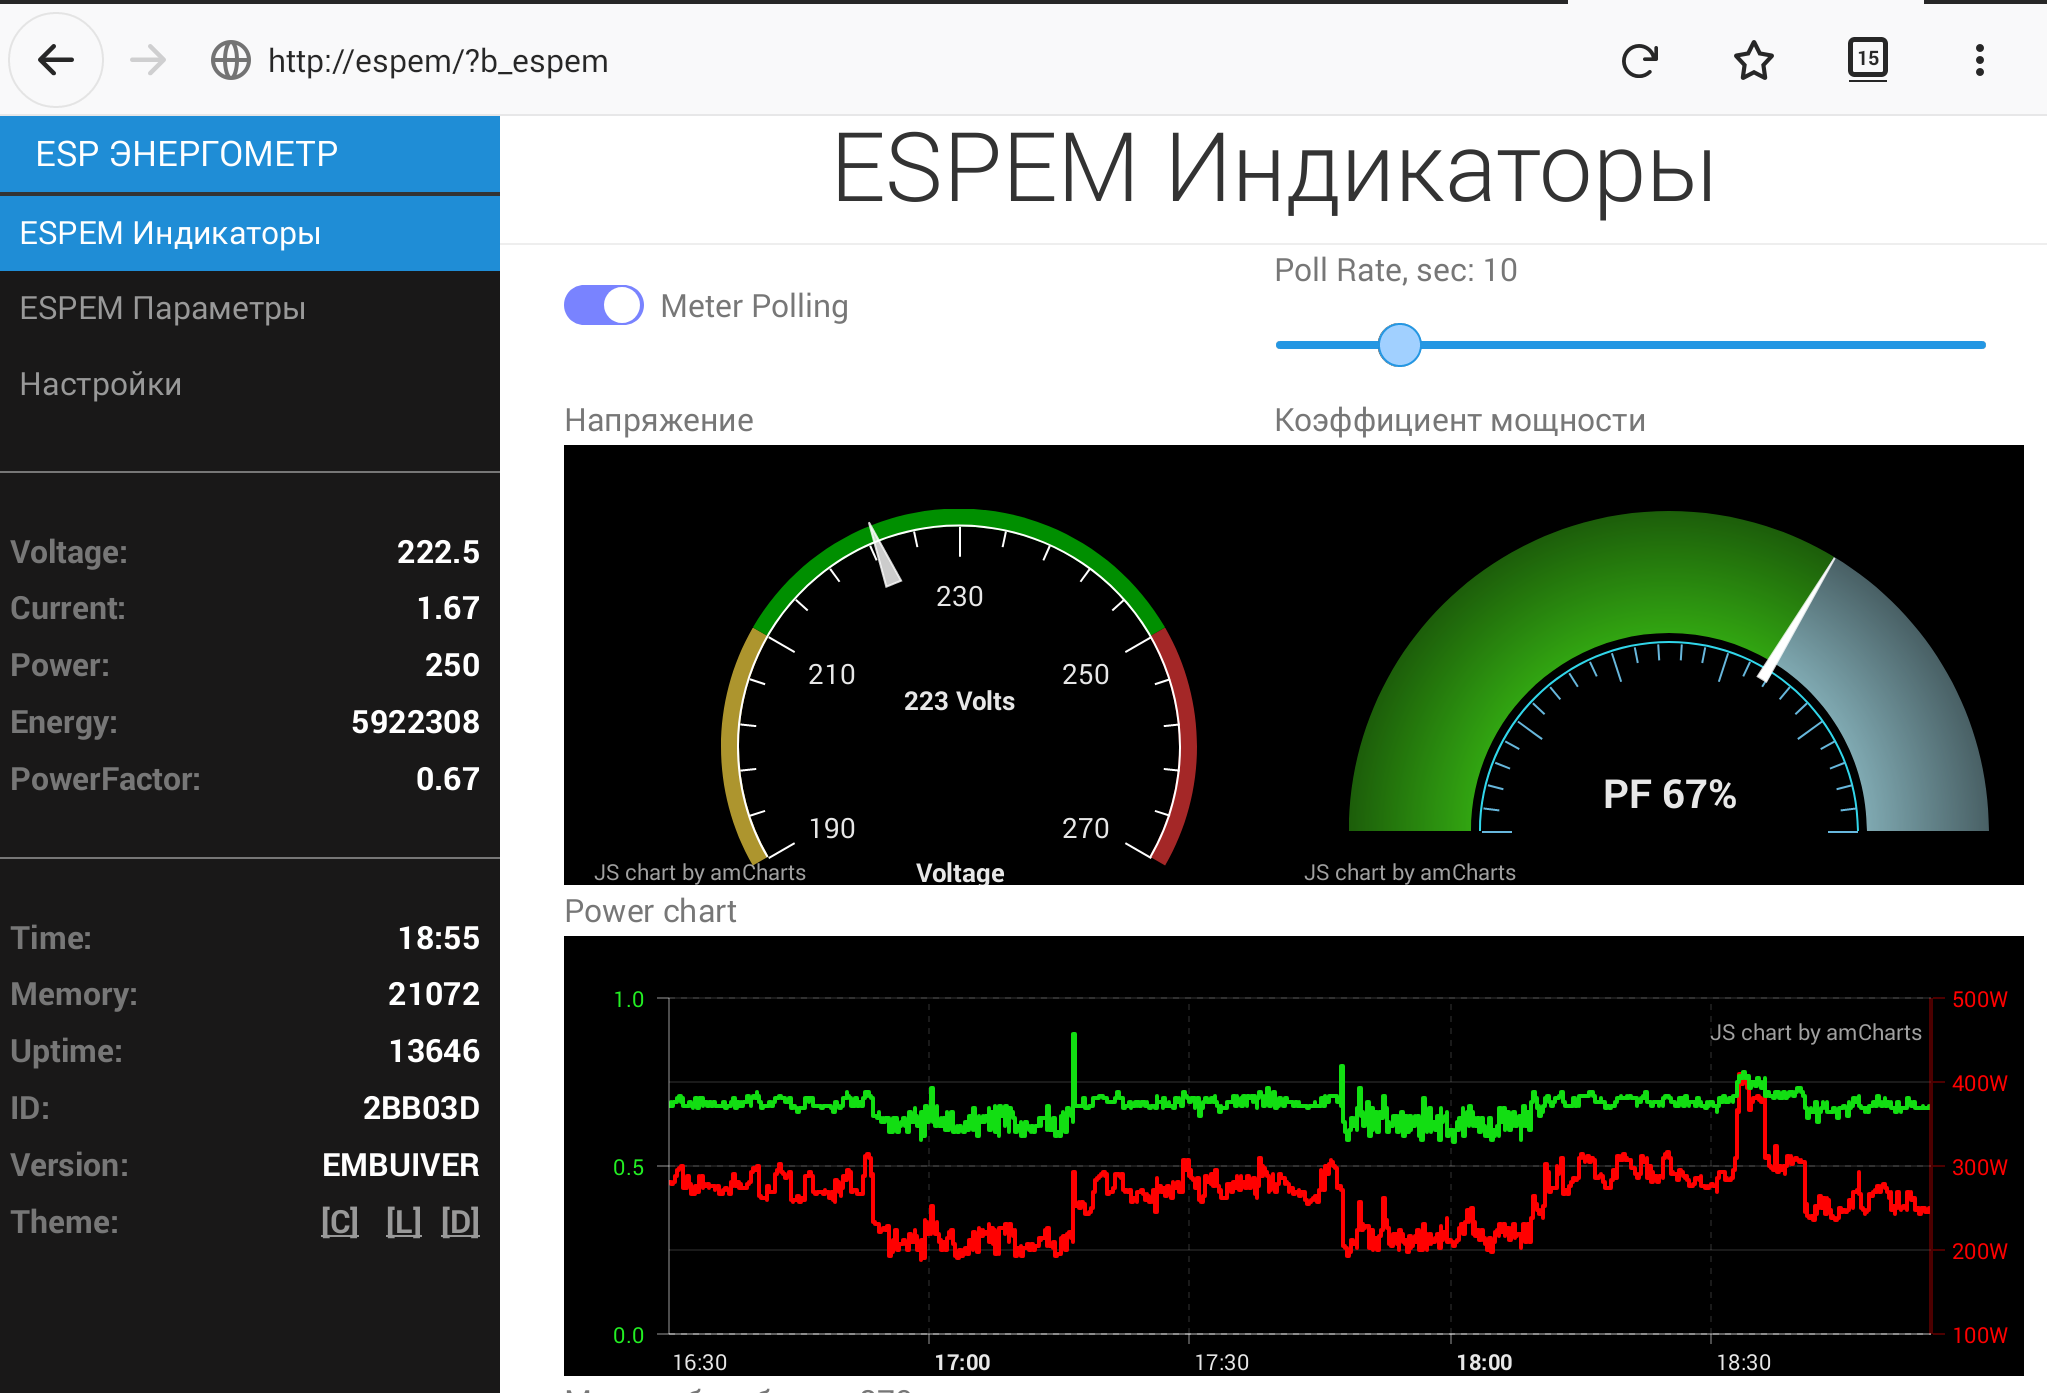
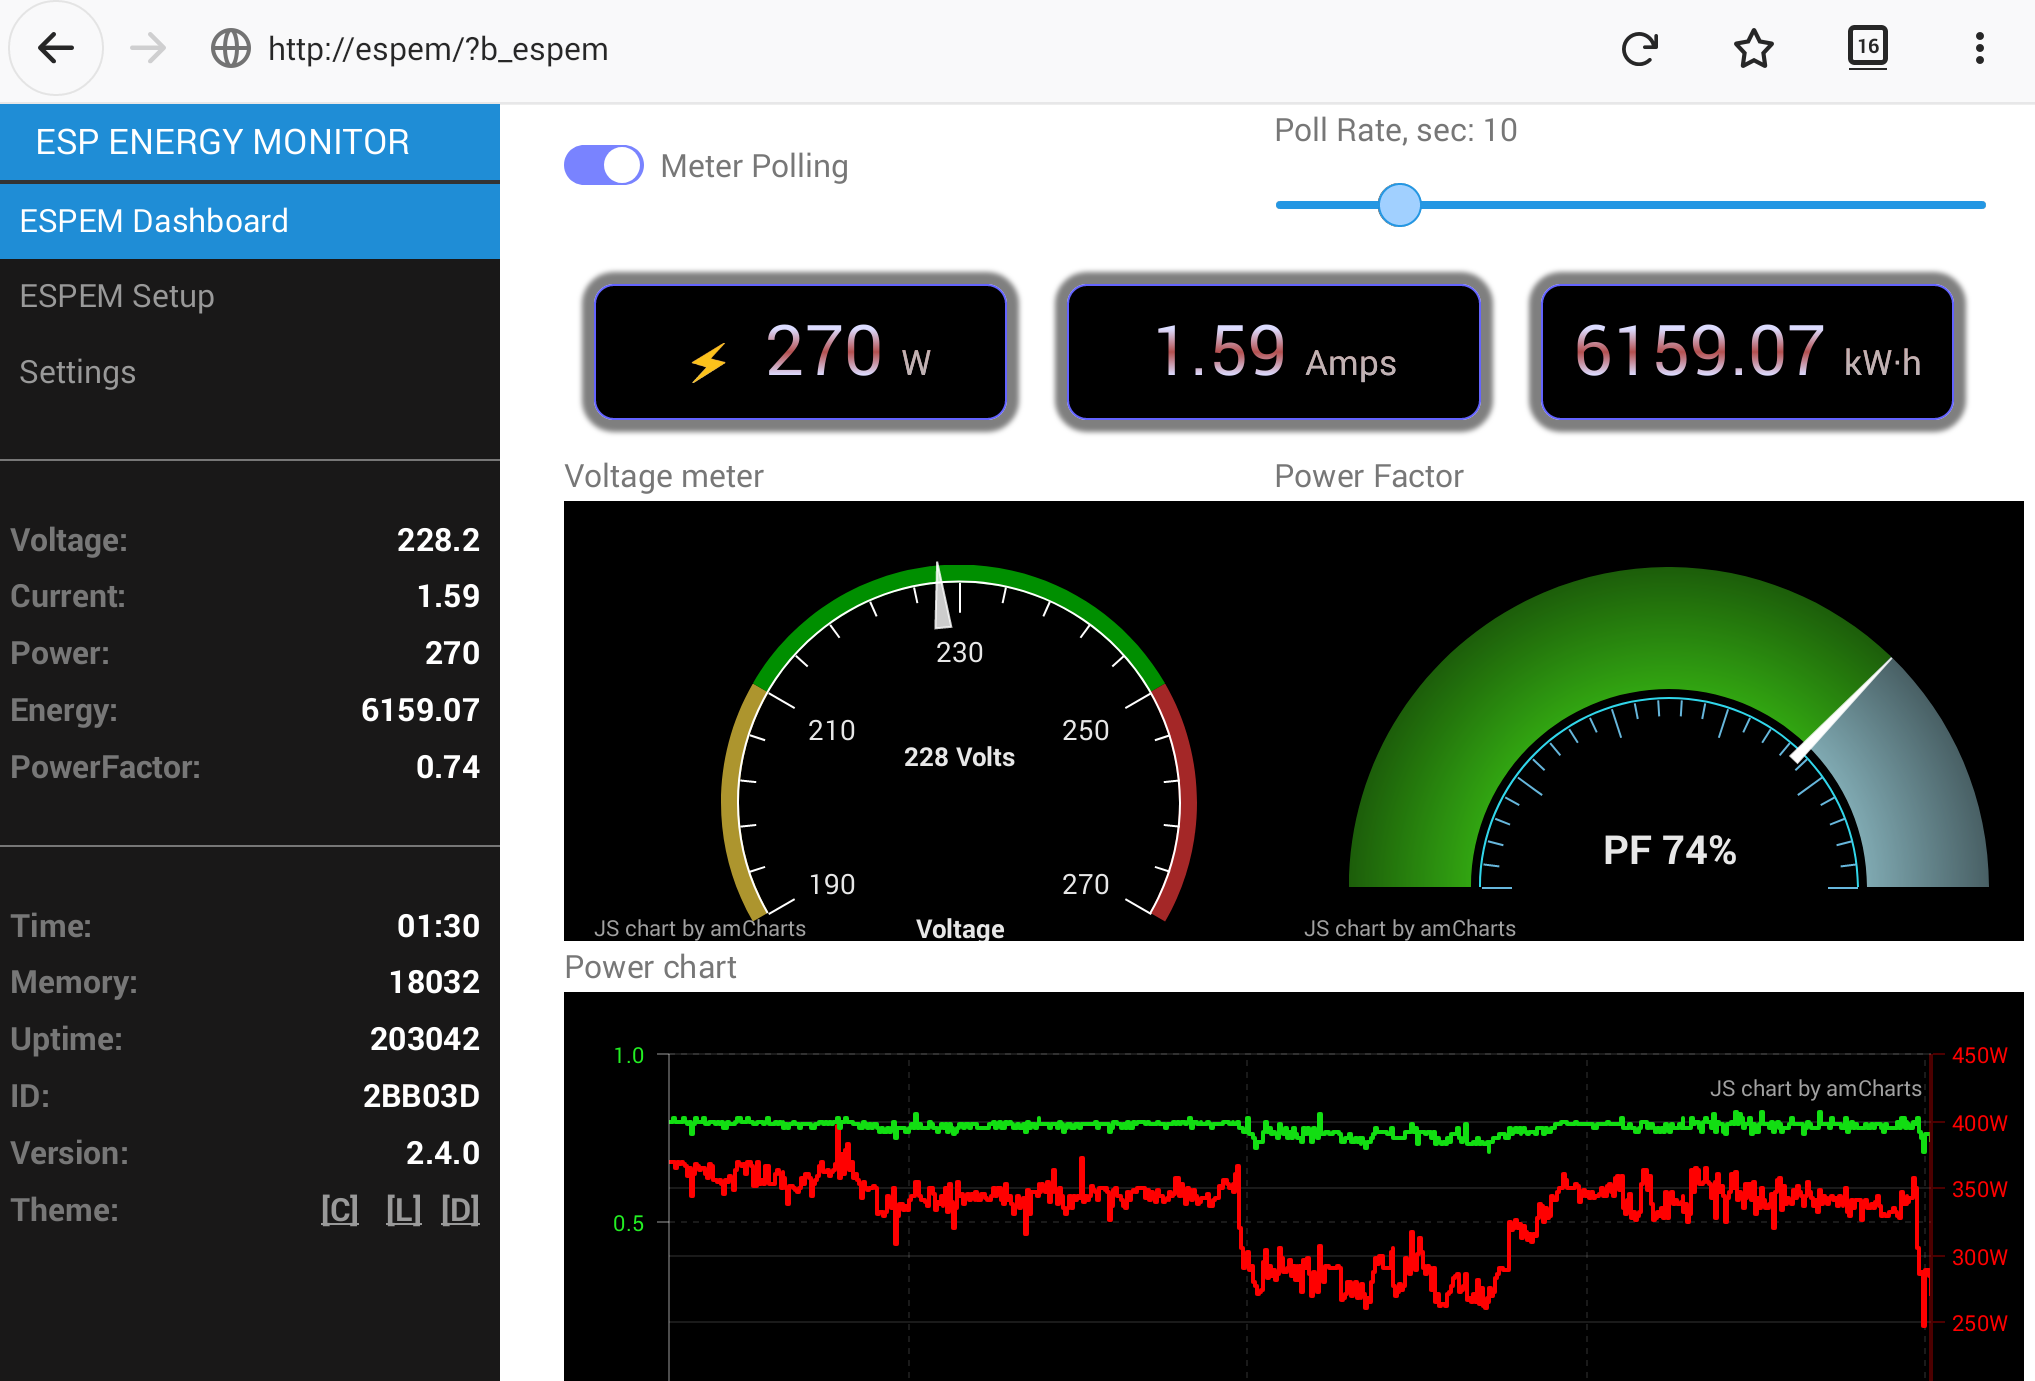
Added displays with P/I/E

diff --git a/resources/html/js/espem.js b/resources/html/js/espem.js
@@ -23,10 +23,12 @@ function rawdata_cb(obj) {
             frame[i].value = (frame[i].value).toFixed(2);
             pF = frame[i].value;
         }
-        if (frame[i].id === "I"){ I = frame[i].value; } 
-        if (frame[i].id === "P"){ P = frame[i].value; }
-        if (frame[i].id === "W"){ W = frame[i].value; }
+        // values for 'displays'
+        if (frame[i].id === "I"){ I = frame[i].value; frame.push({"id":"cur", "value": frame[i].value}); }
+        if (frame[i].id === "P"){ P = frame[i].value; frame.push({"id":"pwr", "value": frame[i].value}); }
+        if (frame[i].id === "W"){ W = frame[i].value; frame.push({"id":"enrg", "value": frame[i].value.toFixed(2)}); }
 
+        // обновить график с новым значением шкалы
         if (frame[i].id === "scntr" && Gsminichart){
             AmCharts.loadFile("http://" + location.host + "/samples.json?scntr=" + frame[i].value, {async: false}, function(data) {
                 Gsminichart.dataProvider = AmCharts.parseJSON(data);
@@ -36,7 +38,7 @@ function rawdata_cb(obj) {
             return;
         }
 
-        // requred for left-menu renderer
+        // required for left-menu renderer
         frame[i].html = true;
     }
 
@@ -49,7 +51,7 @@ function rawdata_cb(obj) {
     Gsminichart.dataProvider.push( { "t": Math.floor(Date.now()), "U": U, "I": I, "P": P, "W": W, "pF": pF } );
     Gsminichart.validateData();
 
-    // pass data to the renderer to make it available under Menu area
+    // pass data to the renderer to make it available under Menu/display area
     rdr.value(obj);
 }
 

diff --git a/resources/html/index.html b/resources/html/index.html
@@ -173,7 +173,7 @@
 		{{#if html == "iframe2"}}
 			<div class="frame"><iframe id="{{id}}" name="{{id}}" src="{{value}}" class="iframe">iframe does not supported</iframe></div>
 		{{/if}}
-		{{#if html == "custom" && type == "div"}}
+		{{#if html == "custom" && type == "js"}}
 		<!-- Custom div element, on create 'div' calls user js-function with a name passed in {{value}} parameter
 			params: id - becomes div ID and name
 			param.class - becomes css class selector
@@ -183,11 +183,20 @@
 			<span class="comment">{{label}}</span>
 			<div id="{{id}}" name="{{id}}" class="{{param.class}}"><img src onerror='{{value}}("{{id}}","{{param.arg1}}")'></div>
 		{{/if}}
+		{{#if html == "custom" && type == "txt"}}
+		<!-- Custom div with text content,
+			params: id - becomes div ID
+			param.class - becomes css class selector
+			value - becomes plain text in div
+			label - becomes div css class selector
+		-->
+			<div class="{{label}}"><div id="{{id}}">{{value}}</div></div>
+		{{/if}}
 		</div>
 	</script>
 
 	<script src="js/embui.js"></script>
-<!--	
+<!--
 	<script src="js/lib.js"></script>
 	<script src="js/maker.js"></script>
 -->

diff --git a/resources/html/css/espem.css b/resources/html/css/espem.css
@@ -19,3 +19,29 @@
 .graphs {
     position:relative; display: flex; height: 200px;
 }
+
+
+#enrg, #pwr, #cur {
+    font-size: 35px;
+}
+#frequency:after {
+    content: 'Hz';
+}
+#cur:after {
+    content: 'Amps';
+}
+#pwr:before {
+    content: '⚡';
+}
+#pwr:after {
+    content: 'W';
+}
+#enrg:after {
+    content: 'kW·h';
+}
+#pf:after {
+    content: 'pF';
+}
+.pwr, .pf {
+    flex-grow: 1.5;
+}

diff --git a/espem/interface.cpp b/espem/interface.cpp
@@ -122,18 +122,27 @@ void block_page_main(Interface *interf, JsonObject *data){
     interf->range(FPSTR(V_EPOLLRT), embui.param(FPSTR(V_EPOLLRT)).toInt(), 1, MAX_POLL_PERIOD, 1, F("Poll Rate, sec"), true);
     interf->json_section_end();     // end of line
 
+    // Plain values display
+    interf->json_section_line();             // "Live controls"
+    // id, type, value, label, param
+    interf->display(F("pwr"), espem->meterData().power);     // Power
+    interf->display(F("cur"), espem->meterData().current);   // Current
+    interf->display(F("enrg"), espem->meterData().energy);   // Energy
+    interf->json_section_end();     // end of line
+
+
     DynamicJsonDocument doc(128);
     JsonObject params = doc.to<JsonObject>();
     params[F("class")] = F("graphwide");    // css selector
 
     interf->json_section_line();
     // id, type, value, label, param
-    interf->custom(F("gaugeV"), F("div"),  FPSTR(C_mkchart), FPSTR(C_DICT[lang][CD::Voltage]), params);   // Voltage gauge
-    interf->custom(F("gaugePF"), F("div"), FPSTR(C_mkchart), FPSTR(C_DICT[lang][CD::PowerF]), params);    // Power Factor
+    interf->custom(F("gaugeV"), FPSTR(C_js),  FPSTR(C_mkchart), FPSTR(C_DICT[lang][CD::Voltage]), params);   // Voltage gauge
+    interf->custom(F("gaugePF"), FPSTR(C_js), FPSTR(C_mkchart), FPSTR(C_DICT[lang][CD::PowerF]), params);    // Power Factor
     interf->json_section_end();     // end of line
 
     params[F("arg1")] = embui.param(FPSTR(V_SMPLCNT));
-    interf->custom(F("gsmini"), F("div"), FPSTR(C_mkchart), F("Power chart"), params);
+    interf->custom(F("gsmini"), FPSTR(C_js), FPSTR(C_mkchart), F("Power chart"), params);
 
     // slider for the amount of metric samples to be plotted on a chart
     interf->range(FPSTR(V_SMPLCNT), (int)embui.param(FPSTR(V_SMPLCNT)).toInt(), 0, (int)espem->getMetricsCap(), 10, FPSTR(C_DICT[lang][CD::MScale]), true);

diff --git a/espem/espem.h b/espem/espem.h
@@ -378,6 +378,15 @@ public:
     }
 
 
+    const pmeterData meterData() {
+        pmeterData _d;
+        if (meter){
+            _d = meter->getData();
+        }        
+        return _d;  // return some dummy struct :)
+    }
+
+
 protected:
 
 private:
@@ -394,6 +403,7 @@ private:
     // todo: provide vector with flags for each field
     String& mkjsondata( const float result[], const unsigned long tstamp, String& jsn, const bool W );
 
+    // publish meter data via WebSocket
     void wspublish();
 
 };

diff --git a/espem/espem.cpp b/espem/espem.cpp
@@ -213,7 +213,11 @@ void ESPEM::wspublish(){
   interf->value(F("U"), meter->getData().voltage);
   interf->value(F("I"), meter->getData().current);
   interf->value(F("P"), meter->getData().power);
+#ifdef USE_PZEMv3
   interf->value(F("W"), meter->getData().energy);
+#else
+  interf->value(F("W"), meter->getData().energy/1000.0);
+#endif
   interf->value(F("Pf"), meter->getData().pf());
   interf->json_frame_flush();
   delete interf;

diff --git a/espem/uistrings.h b/espem/uistrings.h
@@ -5,6 +5,7 @@
 // General
 static const char C_ONE[] PROGMEM = "1";
 static const char C_mkchart[] PROGMEM = "mkchart";
+static const char C_js[] PROGMEM = "js";
 
 //////////////////////
 // Configuration variables names  - V_ prefix for 'Variable'

diff --git a/CHANGELOG.md b/CHANGELOG.md
@@ -1,9 +1,11 @@
 # Change Log
 
 ## current master
-Add ESP32 support (hardware serial only, with pin remapping)
-Add PZEM-004Tv30 support (WIP)
++ WebUI displays for Voltage, Current, Energy 
++ ESP32 support (hardware serial only, with pin remapping)
++ PZEM-004Tv30 support (WIP)
 SoftwareSerial from now on is deprecated
++ heap curruption fix
 
 ## v 2.0.0 (2021-04-12)
 
